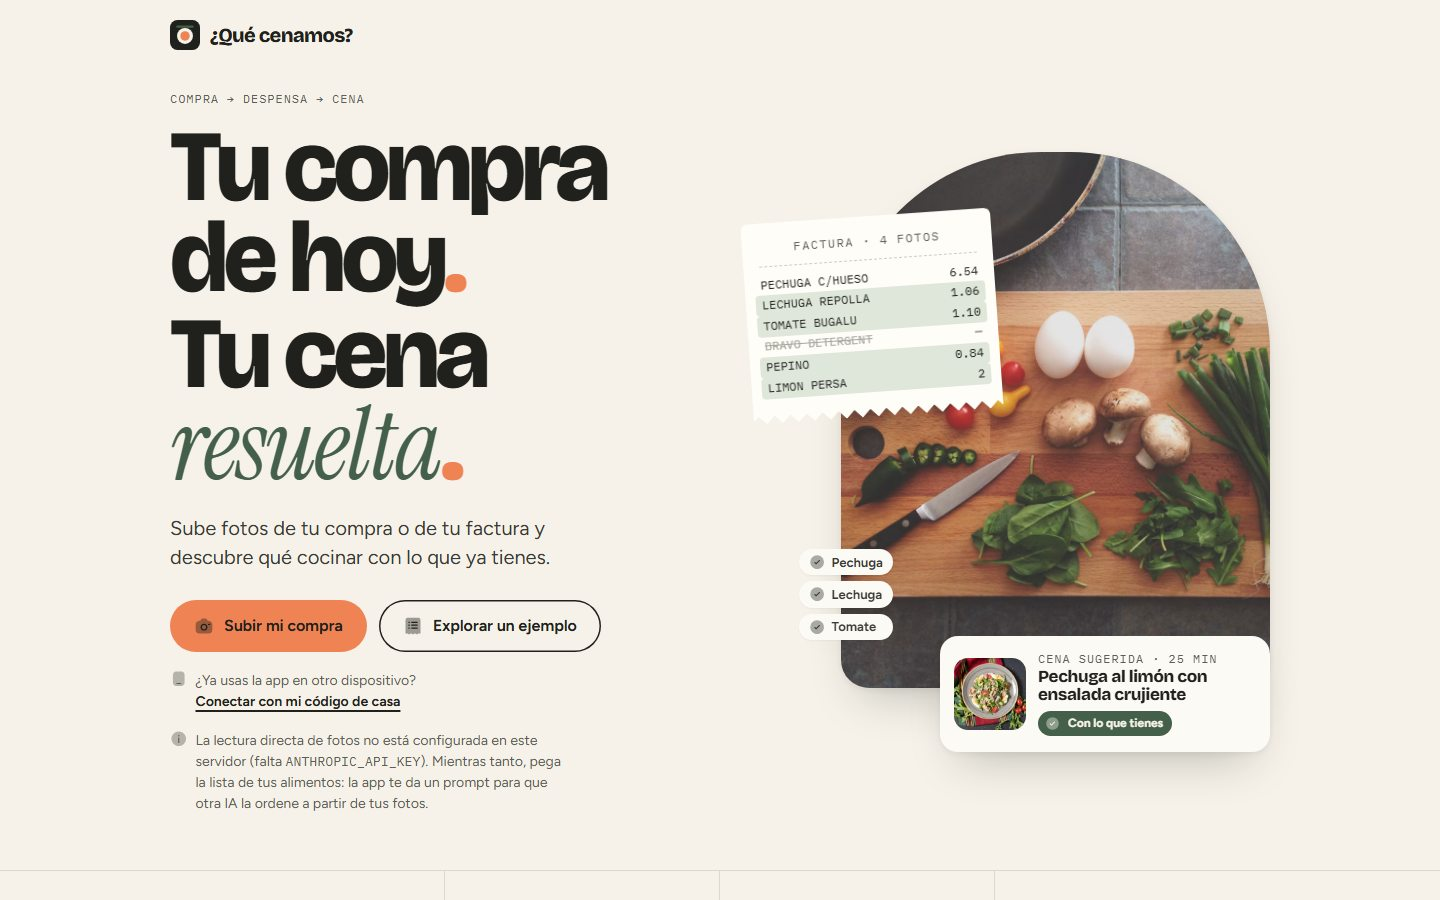
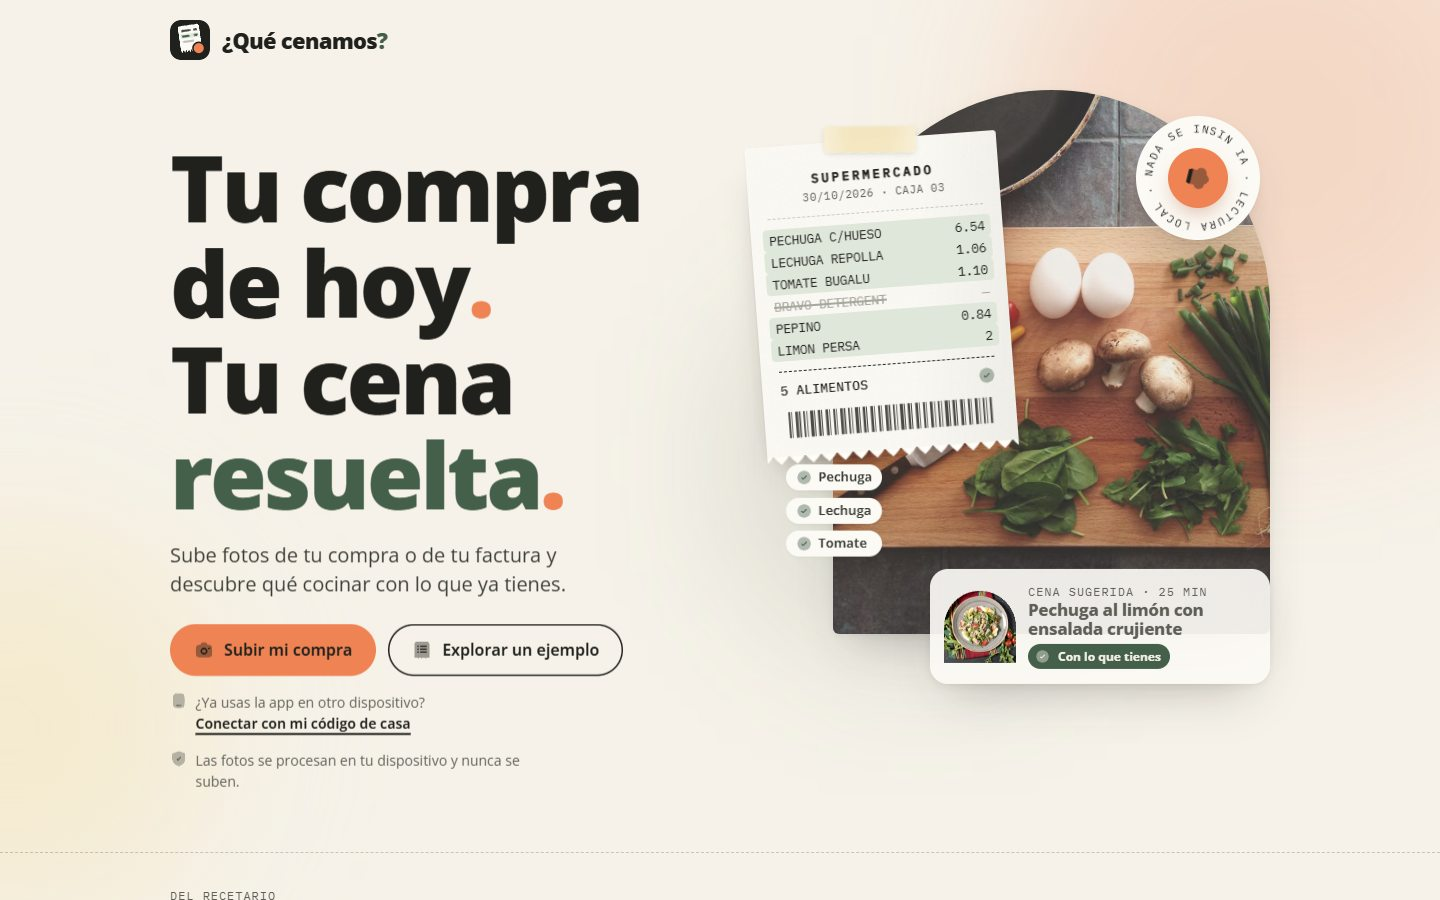
Actualiza ¿Qué cenamos? con la nueva versión de la app
Capturas nuevas del sitio en vivo: portada del hero, captura alta de la
bienvenida con el recetario para el scroll, y galería con la revisión de
la factura, las cenas sugeridas y el plan de la semana (sustituyen a
cenamos-demo.jpg).

Reescribe el texto: la factura se lee en el dispositivo (Tesseract.js,
códigos de barras, QR y PDF) sin IA ni subir fotos, recetario dominicano
y casero, plan semanal y lista de compra. Actualiza stack y cifras.

diff --git a/js/projects.js b/js/projects.js
@@ -120,35 +120,35 @@ export const projects = [
   {
     slug: "que-cenamos",
     title: "¿Qué cenamos?",
-    kicker: "Web app · IA",
+    kicker: "Web app · Lectura local",
     year: "2026",
     url: "https://que-cenamos-omega.vercel.app",
     accent: "#f0844f",
     icon: "chef-hat",
     summary:
-      "Sube fotos de tu compra o de tu factura y descubre qué cocinar con lo que ya tienes en casa.",
+      "Sube fotos de tu compra o de tu factura y descubre qué cocinar con lo que ya tienes. Las fotos se leen en tu teléfono, sin IA y sin subirlas.",
     description: [
-      "La pregunta de cada noche, resuelta con lo que ya hay en la despensa. La app lee las fotos de la compra o del ticket, separa los alimentos de todo lo demás y propone tres cenas distintas con esos ingredientes.",
-      "El flujo es Compra → Despensa → Cena: confirmas lo dudoso (nada se inventa), eliges una idea y la cocinas paso a paso con temporizadores. Un código de casa sincroniza la despensa entre dispositivos.",
+      "La pregunta de cada noche, resuelta con lo que ya hay en la despensa. La app lee la factura en el propio dispositivo —texto, códigos de barras, el QR del ticket o un PDF—, une varias fotos de una misma compra, comprueba que cuadre con el total y aparta lo que no es comida.",
+      "El flujo es Compra → Despensa → Cena: confirmas lo dudoso (nada se inventa), eliges entre ideas de un recetario dominicano y casero con lo que ya tienes y la cocinas paso a paso con temporizadores. Además planea la semana, arma la lista de compra y sincroniza la casa entre dispositivos con un código.",
     ],
     role: "Producto, diseño y desarrollo",
-    stack: ["JavaScript", "Claude API", "Visión por IA", "Bricolage Grotesque"],
+    stack: ["Tesseract.js", "pdf.js", "Open Food Facts", "Open Sans"],
     highlights: [
-      "Une varias fotos de una misma factura sin duplicar líneas.",
-      "Aparta productos que no son comida, como los de limpieza.",
-      "Tres ideas de cena distintas con lo que tienes, paso a paso y con temporizadores.",
-      "Código de casa para usar la misma despensa en otro dispositivo.",
+      "OCR en el navegador: las fotos nunca salen del dispositivo.",
+      "Une las fotos de una factura larga sin duplicar líneas y la cuadra con el total.",
+      "Recetario dominicano y casero que propone cenas con lo que tienes y avisa qué usar primero.",
+      "Plan de cenas para la semana y lista de compra con lo que falta.",
     ],
     stats: [
+      { value: "300+", label: "recetas" },
       { value: "4", label: "pasos de la compra a la cena" },
-      { value: "3", label: "ideas de cena por despensa" },
-      { value: "0", label: "ingredientes inventados" },
+      { value: "0", label: "fotos subidas" },
     ],
     images: {
       cover: "assets/projects/cenamos-cover.jpg",
-      // Sin captura alta: al pasar el ratón cambia a la segunda imagen
-      hover: "assets/projects/cenamos-demo.jpg",
-      gallery: ["assets/projects/cenamos-demo.jpg"],
+      // Captura alta: se desplaza al pasar el ratón por la tarjeta
+      scroll: "assets/projects/cenamos-scroll.jpg",
+      gallery: ["assets/projects/cenamos-review.jpg", "assets/projects/cenamos-today.jpg", "assets/projects/cenamos-week.jpg"],
     },
   },
 ];
